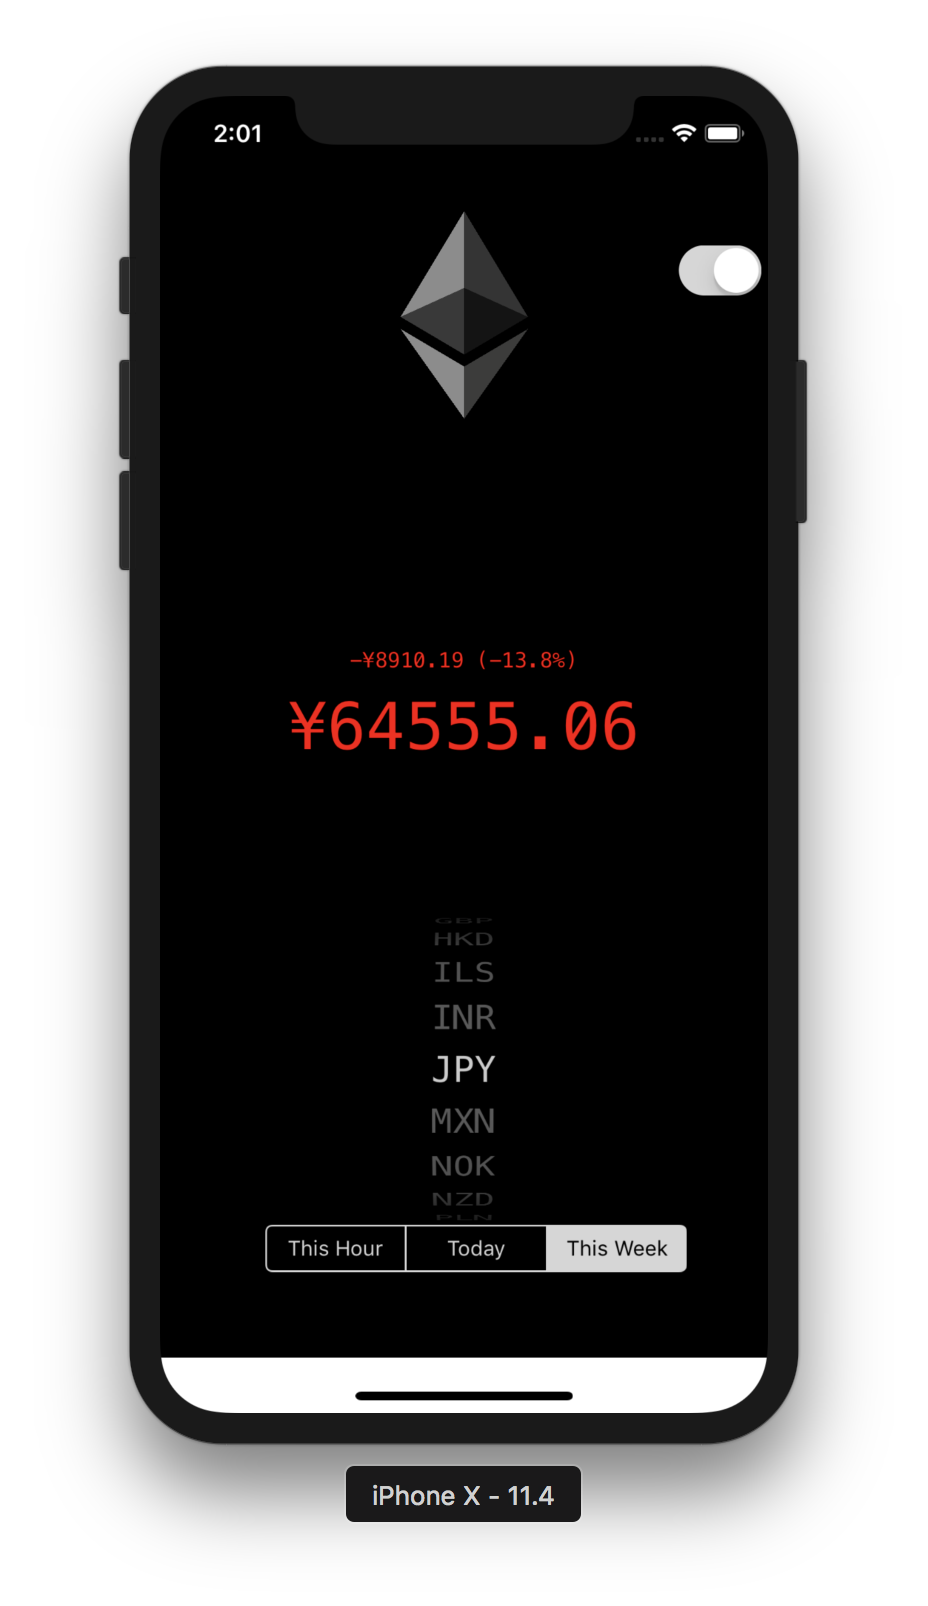
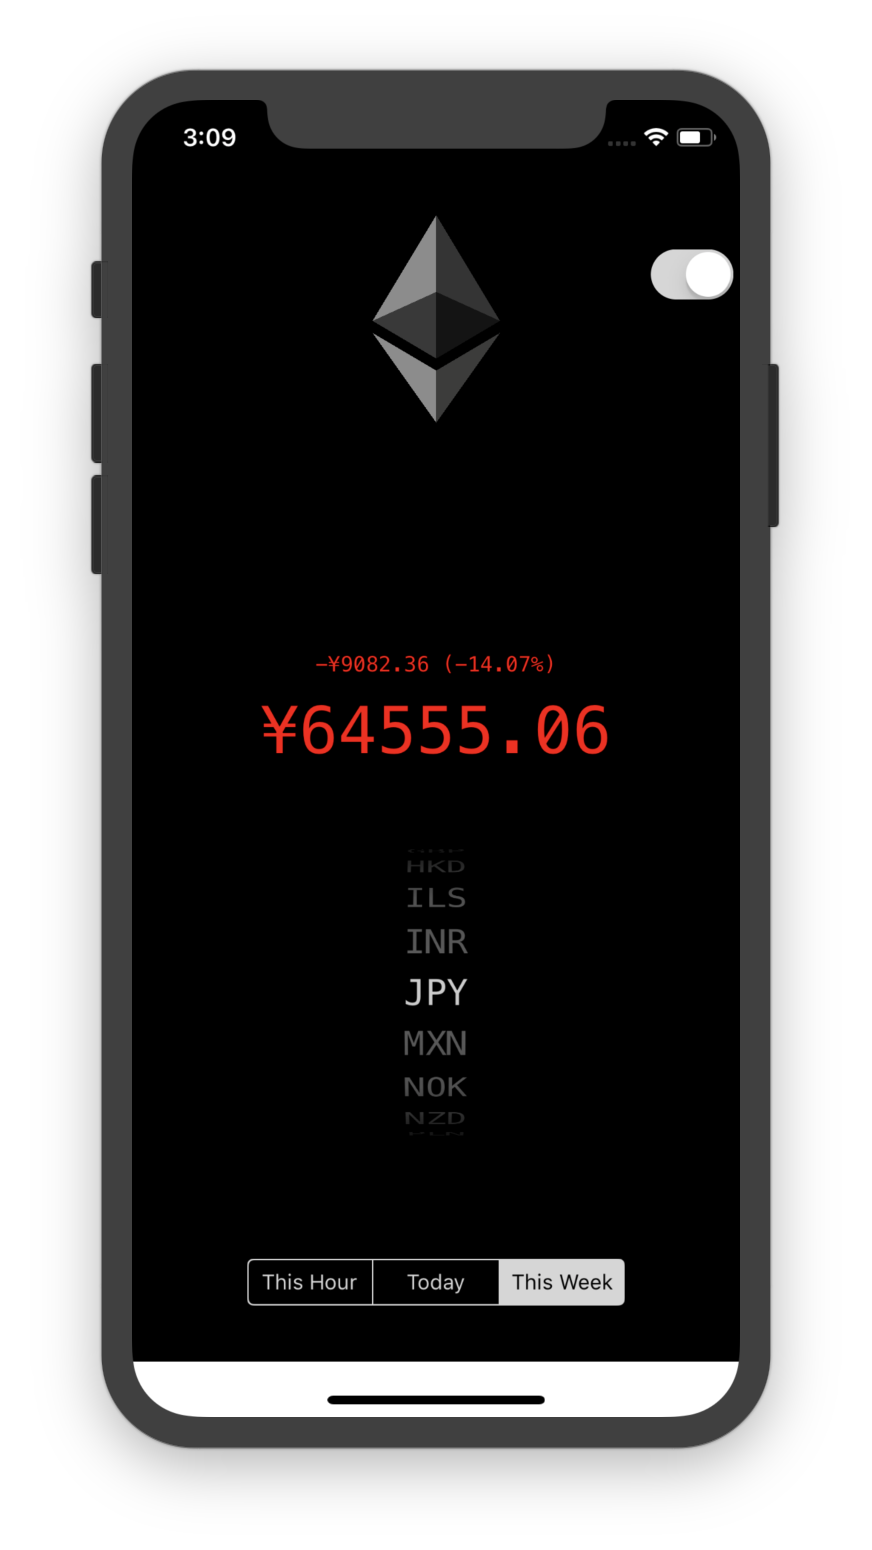
UI Improvement - fix spacing between pickerview and timeframe segment

Changed region(s): [[0.0929, 0.031, 0.8979, 0.96], [0.3096, 0.4026, 0.7122, 0.4955]]

diff --git a/MyBitStack/ViewController.swift b/MyBitStack/ViewController.swift
@@ -61,6 +61,12 @@ class ViewController: UIViewController {
         
     }
     
+    //MARK: - iPhone X Compatibility
+    override func prefersHomeIndicatorAutoHidden() -> Bool
+    {
+        return false
+    }
+    
     //MARK: - View Lifecycle
     /*****************************************************************/
     
